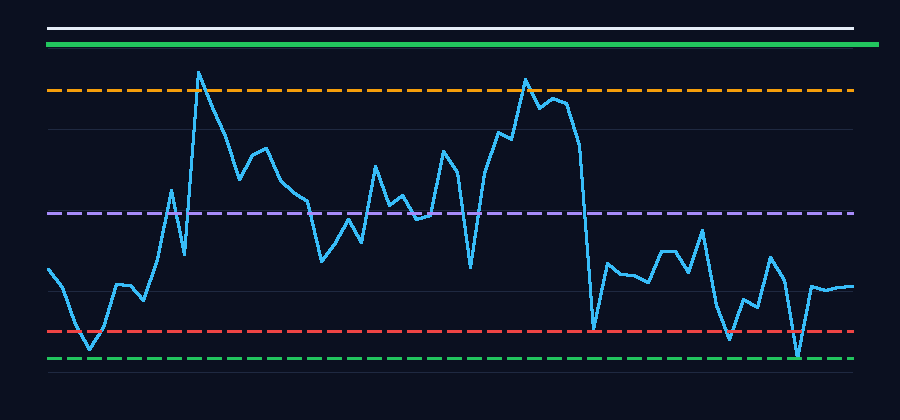
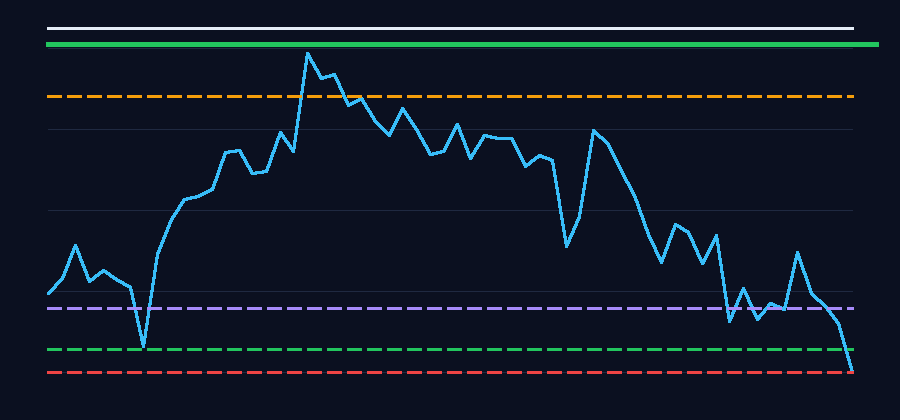
Deploy dashboard from phemex-grid-ai@b7e9593da10271ce2929b4c0a83c37cc3e0da204

Changed region(s): [[0.0311, 0.1238, 0.9644, 0.8976]]

diff --git a/dashboard/index.html b/dashboard/index.html
@@ -134,11 +134,11 @@
       <div class="stats-grid">
         <div class="stat">
           <label>Current Equity</label>
-          <value class="negative">716.88 USDT</value>
+          <value class="negative">694.19 USDT</value>
         </div>
         <div class="stat">
           <label>Total PnL</label>
-          <value class="large negative">-283.12 (-28.3%)</value>
+          <value class="large negative">-305.81 (-30.6%)</value>
         </div>
         <div class="stat">
           <label>Starting</label>
@@ -152,22 +152,22 @@
       <div class="graph-container">
         <svg viewBox="0 0 400 160" preserveAspectRatio="none">
           <line x1="0" y1="13.3" x2="400" y2="13.3" stroke="#9497a9" stroke-width="1" stroke-dasharray="4,4" opacity="0.5"/>
-    <text x="8" y="9.333333333333286" fill="#9497a9" font-size="10">Start: 1000</text>
-    <polygon points="0.0,20.8 14.3,28.1 28.6,35.3 42.9,42.4 57.1,49.1 71.4,55.8 85.7,63.1 100.0,70.2 114.3,77.3 128.6,80.1 142.9,86.4 157.1,92.6 171.4,94.1 185.7,100.6 200.0,101.1 214.3,106.6 228.6,113.0 242.9,115.7 257.1,111.8 271.4,117.4 285.7,122.9 300.0,128.7 314.3,130.6 328.6,136.0 342.9,136.3 357.1,141.8 371.4,141.6 385.7,146.7 400.0,146.7 400,160 0,160" fill="#d92d2022"/>
-    <polyline points="0.0,20.8 14.3,28.1 28.6,35.3 42.9,42.4 57.1,49.1 71.4,55.8 85.7,63.1 100.0,70.2 114.3,77.3 128.6,80.1 142.9,86.4 157.1,92.6 171.4,94.1 185.7,100.6 200.0,101.1 214.3,106.6 228.6,113.0 242.9,115.7 257.1,111.8 271.4,117.4 285.7,122.9 300.0,128.7 314.3,130.6 328.6,136.0 342.9,136.3 357.1,141.8 371.4,141.6 385.7,146.7 400.0,146.7" fill="none" stroke="#d92d20" stroke-width="2.5" stroke-linecap="round" stroke-linejoin="round"/>
+    <text x="8" y="9.333333333333314" fill="#9497a9" font-size="10">Start: 1000</text>
+    <polygon points="0.0,20.2 13.3,27.0 26.7,33.7 40.0,40.2 53.3,46.5 66.7,52.6 80.0,59.4 93.3,66.0 106.7,72.5 120.0,75.1 133.3,80.9 146.7,86.7 160.0,88.1 173.3,94.1 186.7,94.6 200.0,99.7 213.3,105.6 226.7,108.1 240.0,104.5 253.3,109.7 266.7,114.8 280.0,120.1 293.3,121.9 306.7,126.9 320.0,127.2 333.3,132.2 346.7,132.0 360.0,136.8 373.3,141.4 386.7,146.7 400.0,146.7 400,160 0,160" fill="#d92d2022"/>
+    <polyline points="0.0,20.2 13.3,27.0 26.7,33.7 40.0,40.2 53.3,46.5 66.7,52.6 80.0,59.4 93.3,66.0 106.7,72.5 120.0,75.1 133.3,80.9 146.7,86.7 160.0,88.1 173.3,94.1 186.7,94.6 200.0,99.7 213.3,105.6 226.7,108.1 240.0,104.5 253.3,109.7 266.7,114.8 280.0,120.1 293.3,121.9 306.7,126.9 320.0,127.2 333.3,132.2 346.7,132.0 360.0,136.8 373.3,141.4 386.7,146.7 400.0,146.7" fill="none" stroke="#d92d20" stroke-width="2.5" stroke-linecap="round" stroke-linejoin="round"/>
         </svg>
       </div>
     </div>
 
     <div class="panel">
       <h2>Open Position</h2>
-      <div class='position-card'><div class='position-row'><div class='position-main'><span class='side-badge '>LONG</span><div class='position-details'><span>Qty: 0.06142593</span><span>Entry: 81,989</span><span>Current: 81,989</span></div></div><span class='position-pnl '>+0.00 (+0.0%)</span></div></div>
+      <div class='position-card'><div class='position-row'><div class='position-main'><span class='side-badge '>LONG</span><div class='position-details'><span>Qty: 0.08509137</span><span>Entry: 81,663</span><span>Current: 81,663</span></div></div><span class='position-pnl '>+0.00 (+0.0%)</span></div></div>
     </div>
 
     <div class="panel">
       <h2>Recent Trades</h2>
       <div class="trades-container">
-        <div class='trade-row'><span class='side positive'>SHORT</span><span class='prices'>81,458→81,004</span><span class='pnl positive'>+8.27</span></div><div class='trade-row'><span class='side negative'>LONG</span><span class='prices'>80,950→80,839</span><span class='pnl negative'>-11.95</span></div><div class='trade-row'><span class='side negative'>LONG</span><span class='prices'>80,950→80,839</span><span class='pnl negative'>-11.77</span></div><div class='trade-row'><span class='side negative'>LONG</span><span class='prices'>80,846→80,751</span><span class='pnl negative'>-12.22</span></div><div class='trade-row'><span class='side negative'>LONG</span><span class='prices'>80,846→80,812</span><span class='pnl negative'>-3.97</span></div><div class='trade-row'><span class='side negative'>LONG</span><span class='prices'>81,146→81,042</span><span class='pnl negative'>-11.61</span></div><div class='trade-row'><span class='side negative'>LONG</span><span class='prices'>81,146→81,153</span><span class='pnl negative'>-0.64</span></div><div class='trade-row'><span class='side negative'>LONG</span><span class='prices'>81,762→81,660</span><span class='pnl negative'>-11.54</span></div><div class='trade-row'><span class='side positive'>LONG</span><span class='prices'>81,762→81,784</span><span class='pnl positive'>+0.42</span></div><div class='trade-row'><span class='side negative'>LONG</span><span class='prices'>81,989→81,872</span><span class='pnl negative'>-10.85</span></div>
+        <div class='trade-row'><span class='side negative'>LONG</span><span class='prices'>80,950→80,839</span><span class='pnl negative'>-11.77</span></div><div class='trade-row'><span class='side negative'>LONG</span><span class='prices'>80,846→80,751</span><span class='pnl negative'>-12.22</span></div><div class='trade-row'><span class='side negative'>LONG</span><span class='prices'>80,846→80,812</span><span class='pnl negative'>-3.97</span></div><div class='trade-row'><span class='side negative'>LONG</span><span class='prices'>81,146→81,042</span><span class='pnl negative'>-11.61</span></div><div class='trade-row'><span class='side negative'>LONG</span><span class='prices'>81,146→81,153</span><span class='pnl negative'>-0.64</span></div><div class='trade-row'><span class='side negative'>LONG</span><span class='prices'>81,762→81,660</span><span class='pnl negative'>-11.54</span></div><div class='trade-row'><span class='side positive'>LONG</span><span class='prices'>81,762→81,784</span><span class='pnl positive'>+0.42</span></div><div class='trade-row'><span class='side negative'>LONG</span><span class='prices'>81,989→81,872</span><span class='pnl negative'>-10.85</span></div><div class='trade-row'><span class='side negative'>LONG</span><span class='prices'>81,989→81,872</span><span class='pnl negative'>-10.69</span></div><div class='trade-row'><span class='side negative'>LONG</span><span class='prices'>81,663→81,581</span><span class='pnl negative'>-12.01</span></div>
       </div>
     </div>
 
@@ -184,19 +184,19 @@
           <div class='metric-grid'>
             <div class='metric-item'>
               <label>P-Value</label>
-              <value class='negative'>N/A</value>
+              <value class='positive'>0.0000</value>
             </div>
             <div class='metric-item'>
               <label>Significant</label>
-              <value class='negative'>No</value>
+              <value class='positive'>Yes</value>
             </div>
             <div class='metric-item'>
               <label>95% Confidence Interval</label>
-              <value>N/A</value>
+              <value>-12.3307 to -8.0569</value>
             </div>
             <div class='metric-item'>
               <label>Expectancy</label>
-              <value class='negative'>-10.1114 USDT</value>
+              <value class='negative'>-10.1938 USDT</value>
             </div>
           </div>
         </div>
@@ -221,11 +221,11 @@
           <div class='metric-grid'>
             <div class='metric-item'>
               <label>Max Drawdown</label>
-              <value class='negative'>+283.12 USDT (28.3%)</value>
+              <value class='negative'>+305.81 USDT (30.6%)</value>
             </div>
             <div class='metric-item'>
               <label>Current Drawdown</label>
-              <value class='negative'>+283.12 USDT (28.3%)</value>
+              <value class='negative'>+305.81 USDT (30.6%)</value>
             </div>
             <div class='metric-item'>
               <label>Recovery Factor</label>
@@ -274,21 +274,21 @@
           <div class='metric-grid'>
             <div class='metric-item'>
               <label>Current Mode</label>
-              <value class='neutral'>Data Gathering</value>
+              <value class='negative'>Critical</value>
             </div>
             <div class='metric-item'>
               <label>Suggested Risk</label>
-              <value>0.50% per trade</value>
+              <value>0.25% per trade</value>
             </div>
           </div>
-          <p class='muted' style='margin-top: 12px; font-size: 12px;'>Verzamel meer data (28/30 trades). Risico beperkt tot 0.50%.</p>
+          <p class='muted' style='margin-top: 12px; font-size: 12px;'>Max drawdown (30.6%) overschrijdt threshold (15%). Negatieve expectancy; strategie vereist herziening. Profit factor (0.03) onder 1.0; verliesgevend.</p>
         </div>
       </div>
     </div>
     
 
     <footer>
-      Updated: 2026-05-11 20:30 UTC • Paper only
+      Updated: 2026-05-12 00:21 UTC • Paper only
     </footer>
   </div>
   <script>

diff --git a/index.html b/index.html
@@ -134,11 +134,11 @@
       <div class="stats-grid">
         <div class="stat">
           <label>Current Equity</label>
-          <value class="negative">716.88 USDT</value>
+          <value class="negative">694.19 USDT</value>
         </div>
         <div class="stat">
           <label>Total PnL</label>
-          <value class="large negative">-283.12 (-28.3%)</value>
+          <value class="large negative">-305.81 (-30.6%)</value>
         </div>
         <div class="stat">
           <label>Starting</label>
@@ -152,22 +152,22 @@
       <div class="graph-container">
         <svg viewBox="0 0 400 160" preserveAspectRatio="none">
           <line x1="0" y1="13.3" x2="400" y2="13.3" stroke="#9497a9" stroke-width="1" stroke-dasharray="4,4" opacity="0.5"/>
-    <text x="8" y="9.333333333333286" fill="#9497a9" font-size="10">Start: 1000</text>
-    <polygon points="0.0,20.8 14.3,28.1 28.6,35.3 42.9,42.4 57.1,49.1 71.4,55.8 85.7,63.1 100.0,70.2 114.3,77.3 128.6,80.1 142.9,86.4 157.1,92.6 171.4,94.1 185.7,100.6 200.0,101.1 214.3,106.6 228.6,113.0 242.9,115.7 257.1,111.8 271.4,117.4 285.7,122.9 300.0,128.7 314.3,130.6 328.6,136.0 342.9,136.3 357.1,141.8 371.4,141.6 385.7,146.7 400.0,146.7 400,160 0,160" fill="#d92d2022"/>
-    <polyline points="0.0,20.8 14.3,28.1 28.6,35.3 42.9,42.4 57.1,49.1 71.4,55.8 85.7,63.1 100.0,70.2 114.3,77.3 128.6,80.1 142.9,86.4 157.1,92.6 171.4,94.1 185.7,100.6 200.0,101.1 214.3,106.6 228.6,113.0 242.9,115.7 257.1,111.8 271.4,117.4 285.7,122.9 300.0,128.7 314.3,130.6 328.6,136.0 342.9,136.3 357.1,141.8 371.4,141.6 385.7,146.7 400.0,146.7" fill="none" stroke="#d92d20" stroke-width="2.5" stroke-linecap="round" stroke-linejoin="round"/>
+    <text x="8" y="9.333333333333314" fill="#9497a9" font-size="10">Start: 1000</text>
+    <polygon points="0.0,20.2 13.3,27.0 26.7,33.7 40.0,40.2 53.3,46.5 66.7,52.6 80.0,59.4 93.3,66.0 106.7,72.5 120.0,75.1 133.3,80.9 146.7,86.7 160.0,88.1 173.3,94.1 186.7,94.6 200.0,99.7 213.3,105.6 226.7,108.1 240.0,104.5 253.3,109.7 266.7,114.8 280.0,120.1 293.3,121.9 306.7,126.9 320.0,127.2 333.3,132.2 346.7,132.0 360.0,136.8 373.3,141.4 386.7,146.7 400.0,146.7 400,160 0,160" fill="#d92d2022"/>
+    <polyline points="0.0,20.2 13.3,27.0 26.7,33.7 40.0,40.2 53.3,46.5 66.7,52.6 80.0,59.4 93.3,66.0 106.7,72.5 120.0,75.1 133.3,80.9 146.7,86.7 160.0,88.1 173.3,94.1 186.7,94.6 200.0,99.7 213.3,105.6 226.7,108.1 240.0,104.5 253.3,109.7 266.7,114.8 280.0,120.1 293.3,121.9 306.7,126.9 320.0,127.2 333.3,132.2 346.7,132.0 360.0,136.8 373.3,141.4 386.7,146.7 400.0,146.7" fill="none" stroke="#d92d20" stroke-width="2.5" stroke-linecap="round" stroke-linejoin="round"/>
         </svg>
       </div>
     </div>
 
     <div class="panel">
       <h2>Open Position</h2>
-      <div class='position-card'><div class='position-row'><div class='position-main'><span class='side-badge '>LONG</span><div class='position-details'><span>Qty: 0.06142593</span><span>Entry: 81,989</span><span>Current: 81,989</span></div></div><span class='position-pnl '>+0.00 (+0.0%)</span></div></div>
+      <div class='position-card'><div class='position-row'><div class='position-main'><span class='side-badge '>LONG</span><div class='position-details'><span>Qty: 0.08509137</span><span>Entry: 81,663</span><span>Current: 81,663</span></div></div><span class='position-pnl '>+0.00 (+0.0%)</span></div></div>
     </div>
 
     <div class="panel">
       <h2>Recent Trades</h2>
       <div class="trades-container">
-        <div class='trade-row'><span class='side positive'>SHORT</span><span class='prices'>81,458→81,004</span><span class='pnl positive'>+8.27</span></div><div class='trade-row'><span class='side negative'>LONG</span><span class='prices'>80,950→80,839</span><span class='pnl negative'>-11.95</span></div><div class='trade-row'><span class='side negative'>LONG</span><span class='prices'>80,950→80,839</span><span class='pnl negative'>-11.77</span></div><div class='trade-row'><span class='side negative'>LONG</span><span class='prices'>80,846→80,751</span><span class='pnl negative'>-12.22</span></div><div class='trade-row'><span class='side negative'>LONG</span><span class='prices'>80,846→80,812</span><span class='pnl negative'>-3.97</span></div><div class='trade-row'><span class='side negative'>LONG</span><span class='prices'>81,146→81,042</span><span class='pnl negative'>-11.61</span></div><div class='trade-row'><span class='side negative'>LONG</span><span class='prices'>81,146→81,153</span><span class='pnl negative'>-0.64</span></div><div class='trade-row'><span class='side negative'>LONG</span><span class='prices'>81,762→81,660</span><span class='pnl negative'>-11.54</span></div><div class='trade-row'><span class='side positive'>LONG</span><span class='prices'>81,762→81,784</span><span class='pnl positive'>+0.42</span></div><div class='trade-row'><span class='side negative'>LONG</span><span class='prices'>81,989→81,872</span><span class='pnl negative'>-10.85</span></div>
+        <div class='trade-row'><span class='side negative'>LONG</span><span class='prices'>80,950→80,839</span><span class='pnl negative'>-11.77</span></div><div class='trade-row'><span class='side negative'>LONG</span><span class='prices'>80,846→80,751</span><span class='pnl negative'>-12.22</span></div><div class='trade-row'><span class='side negative'>LONG</span><span class='prices'>80,846→80,812</span><span class='pnl negative'>-3.97</span></div><div class='trade-row'><span class='side negative'>LONG</span><span class='prices'>81,146→81,042</span><span class='pnl negative'>-11.61</span></div><div class='trade-row'><span class='side negative'>LONG</span><span class='prices'>81,146→81,153</span><span class='pnl negative'>-0.64</span></div><div class='trade-row'><span class='side negative'>LONG</span><span class='prices'>81,762→81,660</span><span class='pnl negative'>-11.54</span></div><div class='trade-row'><span class='side positive'>LONG</span><span class='prices'>81,762→81,784</span><span class='pnl positive'>+0.42</span></div><div class='trade-row'><span class='side negative'>LONG</span><span class='prices'>81,989→81,872</span><span class='pnl negative'>-10.85</span></div><div class='trade-row'><span class='side negative'>LONG</span><span class='prices'>81,989→81,872</span><span class='pnl negative'>-10.69</span></div><div class='trade-row'><span class='side negative'>LONG</span><span class='prices'>81,663→81,581</span><span class='pnl negative'>-12.01</span></div>
       </div>
     </div>
 
@@ -184,19 +184,19 @@
           <div class='metric-grid'>
             <div class='metric-item'>
               <label>P-Value</label>
-              <value class='negative'>N/A</value>
+              <value class='positive'>0.0000</value>
             </div>
             <div class='metric-item'>
               <label>Significant</label>
-              <value class='negative'>No</value>
+              <value class='positive'>Yes</value>
             </div>
             <div class='metric-item'>
               <label>95% Confidence Interval</label>
-              <value>N/A</value>
+              <value>-12.3307 to -8.0569</value>
             </div>
             <div class='metric-item'>
               <label>Expectancy</label>
-              <value class='negative'>-10.1114 USDT</value>
+              <value class='negative'>-10.1938 USDT</value>
             </div>
           </div>
         </div>
@@ -221,11 +221,11 @@
           <div class='metric-grid'>
             <div class='metric-item'>
               <label>Max Drawdown</label>
-              <value class='negative'>+283.12 USDT (28.3%)</value>
+              <value class='negative'>+305.81 USDT (30.6%)</value>
             </div>
             <div class='metric-item'>
               <label>Current Drawdown</label>
-              <value class='negative'>+283.12 USDT (28.3%)</value>
+              <value class='negative'>+305.81 USDT (30.6%)</value>
             </div>
             <div class='metric-item'>
               <label>Recovery Factor</label>
@@ -274,21 +274,21 @@
           <div class='metric-grid'>
             <div class='metric-item'>
               <label>Current Mode</label>
-              <value class='neutral'>Data Gathering</value>
+              <value class='negative'>Critical</value>
             </div>
             <div class='metric-item'>
               <label>Suggested Risk</label>
-              <value>0.50% per trade</value>
+              <value>0.25% per trade</value>
             </div>
           </div>
-          <p class='muted' style='margin-top: 12px; font-size: 12px;'>Verzamel meer data (28/30 trades). Risico beperkt tot 0.50%.</p>
+          <p class='muted' style='margin-top: 12px; font-size: 12px;'>Max drawdown (30.6%) overschrijdt threshold (15%). Negatieve expectancy; strategie vereist herziening. Profit factor (0.03) onder 1.0; verliesgevend.</p>
         </div>
       </div>
     </div>
     
 
     <footer>
-      Updated: 2026-05-11 20:30 UTC • Paper only
+      Updated: 2026-05-12 00:21 UTC • Paper only
     </footer>
   </div>
   <script>
